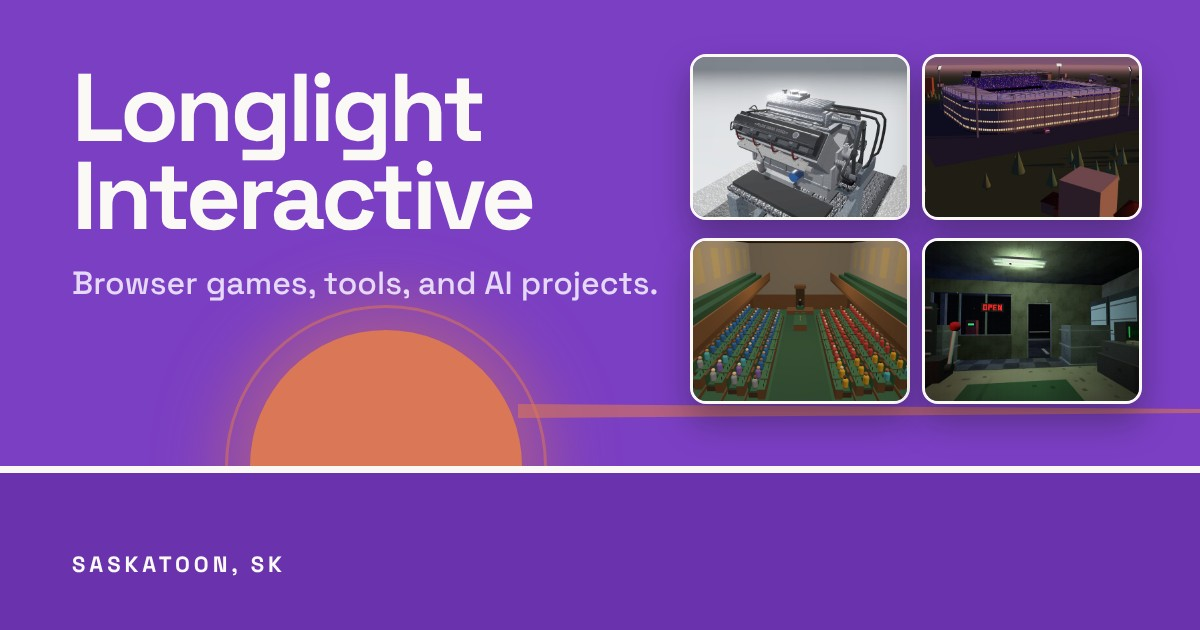
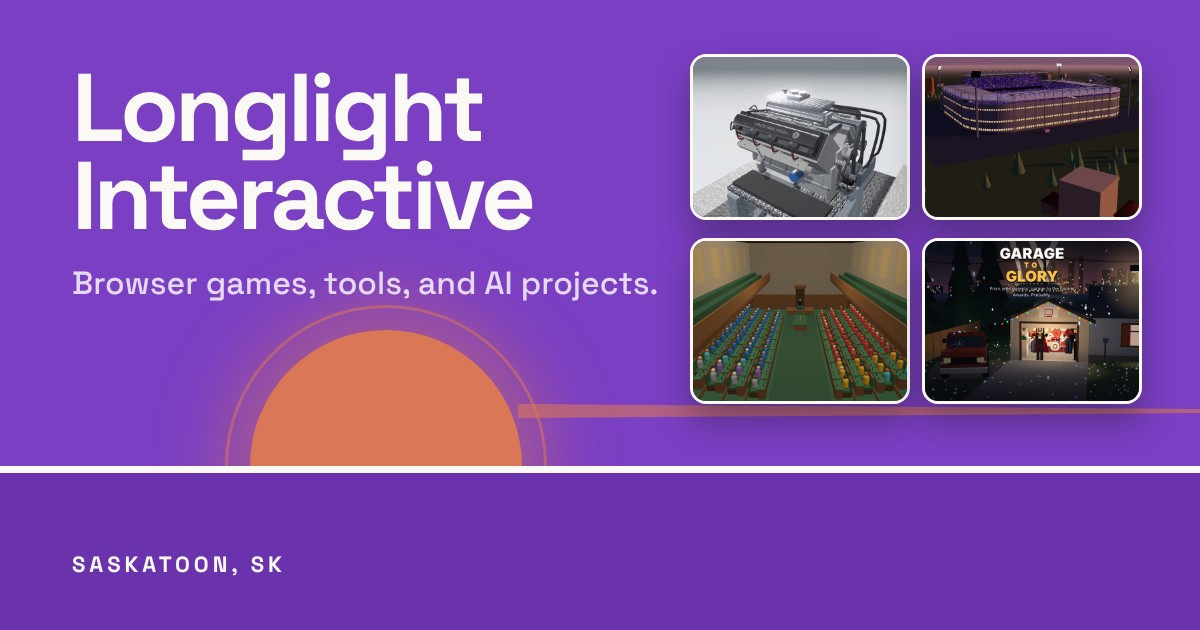
Remove Scratch from the site (#123)
Drops its project entry, cover, screenshots and Now building line.
Garage to Glory (next in the ranking) takes the fourth featured spot,
and the link preview image is remade with its cover (og:image ?v=13).

Claude-Session: https://claude.ai/code/session_016QaTkMKy8nw5ihBrZfYzcJ

Changed region(s): [[0.7708, 0.3619, 0.9558, 0.6635]]

diff --git a/game.html b/game.html
@@ -14,7 +14,7 @@
   <meta property="og:title" content="Game · Longlight Interactive">
   <meta property="og:description" content="A Longlight Interactive browser game: what it is, how far along it is, screenshots, and where to play it.">
   <meta property="og:url" content="https://jxstrr0.github.io/Kelbo.Website/game.html">
-  <meta property="og:image" content="https://jxstrr0.github.io/Kelbo.Website/assets/social-preview.jpg?v=12">
+  <meta property="og:image" content="https://jxstrr0.github.io/Kelbo.Website/assets/social-preview.jpg?v=13">
   <meta property="og:image:width" content="1200">
   <meta property="og:image:height" content="630">
   <meta property="og:image:alt" content="The Longlight Interactive sun over a purple horizon, beside screenshots of four of its games.">
@@ -117,7 +117,7 @@
     <section class="section wrap" aria-labelledby="game-heading">
       <h2 id="game-heading" class="visually-hidden">About this game</h2>
       <!-- main.js fills this from projects.json for the game named in the
-           address (game.html?g=scratch). -->
+           address (game.html?g=the-whip). -->
       <div class="game" data-projects="game">
         <p class="game__note">Loading&hellip;</p>
       </div>

diff --git a/main.js b/main.js
@@ -21,7 +21,7 @@
     12. fills the "Now building" strip on the home page from now.json
     13. stretches the hero's ray with the season, and shows a badge on the
         longest and shortest days of the year
-    14. fills game.html (one game's own page, game.html?g=scratch) from
+    14. fills game.html (one game's own page, game.html?g=the-whip) from
         projects.json
 
    To preview a time of day, add ?at= to the address, e.g.
@@ -369,7 +369,7 @@ function sortByProgress(projects) {
 }
 
 // Home page: featured projects only.
-// A game's own page (game.html?g=scratch): the cover, the story, every
+// A game's own page (game.html?g=the-whip): the cover, the story, every
 // screenshot open in a strip, the buttons, and links to the other games.
 // Everything comes from projects.json. Optional "story" in a project is a
 // longer write-up; a blank line (\n\n) starts a new paragraph.

diff --git a/tools/prediction-tracker/index.html b/tools/prediction-tracker/index.html
@@ -14,7 +14,7 @@
   <meta property="og:title" content="Prediction Tracker · Longlight Interactive">
   <meta property="og:description" content="Log predictions with how sure you are, grade them later, and see how well-calibrated your calls really are. Everything stays on your own device.">
   <meta property="og:url" content="https://jxstrr0.github.io/Kelbo.Website/tools/prediction-tracker/">
-  <meta property="og:image" content="https://jxstrr0.github.io/Kelbo.Website/assets/social-preview.jpg?v=12">
+  <meta property="og:image" content="https://jxstrr0.github.io/Kelbo.Website/assets/social-preview.jpg?v=13">
   <meta property="og:image:width" content="1200">
   <meta property="og:image:height" content="630">
   <meta property="og:image:alt" content="The Longlight Interactive sun over a purple horizon, beside screenshots of four of its games.">

diff --git a/agent-fleet.html b/agent-fleet.html
@@ -14,7 +14,7 @@
   <meta property="og:title" content="Agent Fleet · Longlight Interactive">
   <meta property="og:description" content="A growing set of small, single-purpose bots I can run from my phone, like news digests, trackers, and weekly scans.">
   <meta property="og:url" content="https://jxstrr0.github.io/Kelbo.Website/agent-fleet.html">
-  <meta property="og:image" content="https://jxstrr0.github.io/Kelbo.Website/assets/social-preview.jpg?v=12">
+  <meta property="og:image" content="https://jxstrr0.github.io/Kelbo.Website/assets/social-preview.jpg?v=13">
   <meta property="og:image:width" content="1200">
   <meta property="og:image:height" content="630">
   <meta property="og:image:alt" content="The Longlight Interactive sun over a purple horizon, beside screenshots of four of its games.">

diff --git a/journal.html b/journal.html
@@ -14,7 +14,7 @@
   <meta property="og:title" content="AI Trading Journal · Longlight Interactive">
   <meta property="og:description" content="Kelbo's trading journal: his market views, his trades, and his running record, with notes from an AI coach.">
   <meta property="og:url" content="https://jxstrr0.github.io/Kelbo.Website/journal.html">
-  <meta property="og:image" content="https://jxstrr0.github.io/Kelbo.Website/assets/social-preview.jpg?v=12">
+  <meta property="og:image" content="https://jxstrr0.github.io/Kelbo.Website/assets/social-preview.jpg?v=13">
   <meta property="og:image:width" content="1200">
   <meta property="og:image:height" content="630">
   <meta property="og:image:alt" content="The Longlight Interactive sun over a purple horizon, beside screenshots of four of its games.">

diff --git a/games.html b/games.html
@@ -14,7 +14,7 @@
   <meta property="og:title" content="Games · Longlight Interactive">
   <meta property="og:description" content="Browser games from Longlight Interactive. Play them on your phone or computer, or look at the code.">
   <meta property="og:url" content="https://jxstrr0.github.io/Kelbo.Website/games.html">
-  <meta property="og:image" content="https://jxstrr0.github.io/Kelbo.Website/assets/social-preview.jpg?v=12">
+  <meta property="og:image" content="https://jxstrr0.github.io/Kelbo.Website/assets/social-preview.jpg?v=13">
   <meta property="og:image:width" content="1200">
   <meta property="og:image:height" content="630">
   <meta property="og:image:alt" content="The Longlight Interactive sun over a purple horizon, beside screenshots of four of its games.">

diff --git a/projects.html b/projects.html
@@ -14,7 +14,7 @@
   <meta property="og:title" content="Projects · Longlight Interactive">
   <meta property="og:description" content="Games, tools, and AI projects from Longlight Interactive, from planned to shipped.">
   <meta property="og:url" content="https://jxstrr0.github.io/Kelbo.Website/projects.html">
-  <meta property="og:image" content="https://jxstrr0.github.io/Kelbo.Website/assets/social-preview.jpg?v=12">
+  <meta property="og:image" content="https://jxstrr0.github.io/Kelbo.Website/assets/social-preview.jpg?v=13">
   <meta property="og:image:width" content="1200">
   <meta property="og:image:height" content="630">
   <meta property="og:image:alt" content="The Longlight Interactive sun over a purple horizon, beside screenshots of four of its games.">

diff --git a/about.html b/about.html
@@ -14,7 +14,7 @@
   <meta property="og:title" content="About · Longlight Interactive">
   <meta property="og:description" content="About Kelbo, the person behind Longlight Interactive, based in Saskatoon, Saskatchewan.">
   <meta property="og:url" content="https://jxstrr0.github.io/Kelbo.Website/about.html">
-  <meta property="og:image" content="https://jxstrr0.github.io/Kelbo.Website/assets/social-preview.jpg?v=12">
+  <meta property="og:image" content="https://jxstrr0.github.io/Kelbo.Website/assets/social-preview.jpg?v=13">
   <meta property="og:image:width" content="1200">
   <meta property="og:image:height" content="630">
   <meta property="og:image:alt" content="The Longlight Interactive sun over a purple horizon, beside screenshots of four of its games.">

diff --git a/whats-new.html b/whats-new.html
@@ -14,7 +14,7 @@
   <meta property="og:title" content="What's new · Longlight Interactive">
   <meta property="og:description" content="The newest version and latest change for every Longlight Interactive project.">
   <meta property="og:url" content="https://jxstrr0.github.io/Kelbo.Website/whats-new.html">
-  <meta property="og:image" content="https://jxstrr0.github.io/Kelbo.Website/assets/social-preview.jpg?v=12">
+  <meta property="og:image" content="https://jxstrr0.github.io/Kelbo.Website/assets/social-preview.jpg?v=13">
   <meta property="og:image:width" content="1200">
   <meta property="og:image:height" content="630">
   <meta property="og:image:alt" content="The Longlight Interactive sun over a purple horizon, beside screenshots of four of its games.">

diff --git a/trading.html b/trading.html
@@ -14,7 +14,7 @@
   <meta property="og:title" content="Trading · Longlight Interactive">
   <meta property="og:description" content="Kelbo's trading journal and the tools he builds for his own trading day.">
   <meta property="og:url" content="https://jxstrr0.github.io/Kelbo.Website/trading.html">
-  <meta property="og:image" content="https://jxstrr0.github.io/Kelbo.Website/assets/social-preview.jpg?v=12">
+  <meta property="og:image" content="https://jxstrr0.github.io/Kelbo.Website/assets/social-preview.jpg?v=13">
   <meta property="og:image:width" content="1200">
   <meta property="og:image:height" content="630">
   <meta property="og:image:alt" content="The Longlight Interactive sun over a purple horizon, beside screenshots of four of its games.">

diff --git a/index.html b/index.html
@@ -14,7 +14,7 @@
   <meta property="og:title" content="Longlight Interactive">
   <meta property="og:description" content="Longlight Interactive makes browser games, tools, and AI projects in Saskatoon, Saskatchewan.">
   <meta property="og:url" content="https://jxstrr0.github.io/Kelbo.Website/">
-  <meta property="og:image" content="https://jxstrr0.github.io/Kelbo.Website/assets/social-preview.jpg?v=12">
+  <meta property="og:image" content="https://jxstrr0.github.io/Kelbo.Website/assets/social-preview.jpg?v=13">
   <meta property="og:image:width" content="1200">
   <meta property="og:image:height" content="630">
   <meta property="og:image:alt" content="The Longlight Interactive sun over a purple horizon, beside screenshots of four of its games.">

diff --git a/ai.html b/ai.html
@@ -14,7 +14,7 @@
   <meta property="og:title" content="AI · Longlight Interactive">
   <meta property="og:description" content="AI projects and small bots from Longlight Interactive.">
   <meta property="og:url" content="https://jxstrr0.github.io/Kelbo.Website/ai.html">
-  <meta property="og:image" content="https://jxstrr0.github.io/Kelbo.Website/assets/social-preview.jpg?v=12">
+  <meta property="og:image" content="https://jxstrr0.github.io/Kelbo.Website/assets/social-preview.jpg?v=13">
   <meta property="og:image:width" content="1200">
   <meta property="og:image:height" content="630">
   <meta property="og:image:alt" content="The Longlight Interactive sun over a purple horizon, beside screenshots of four of its games.">
